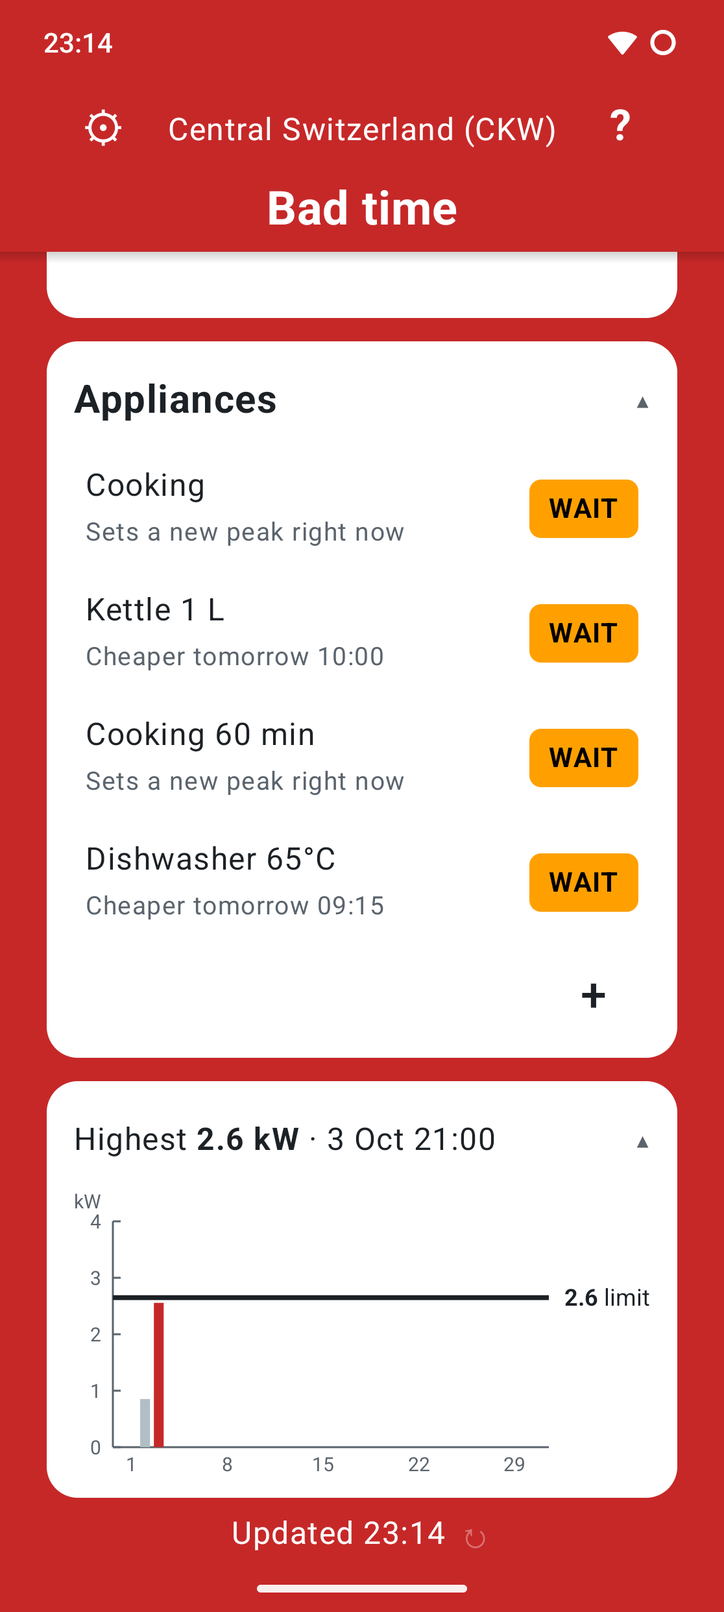
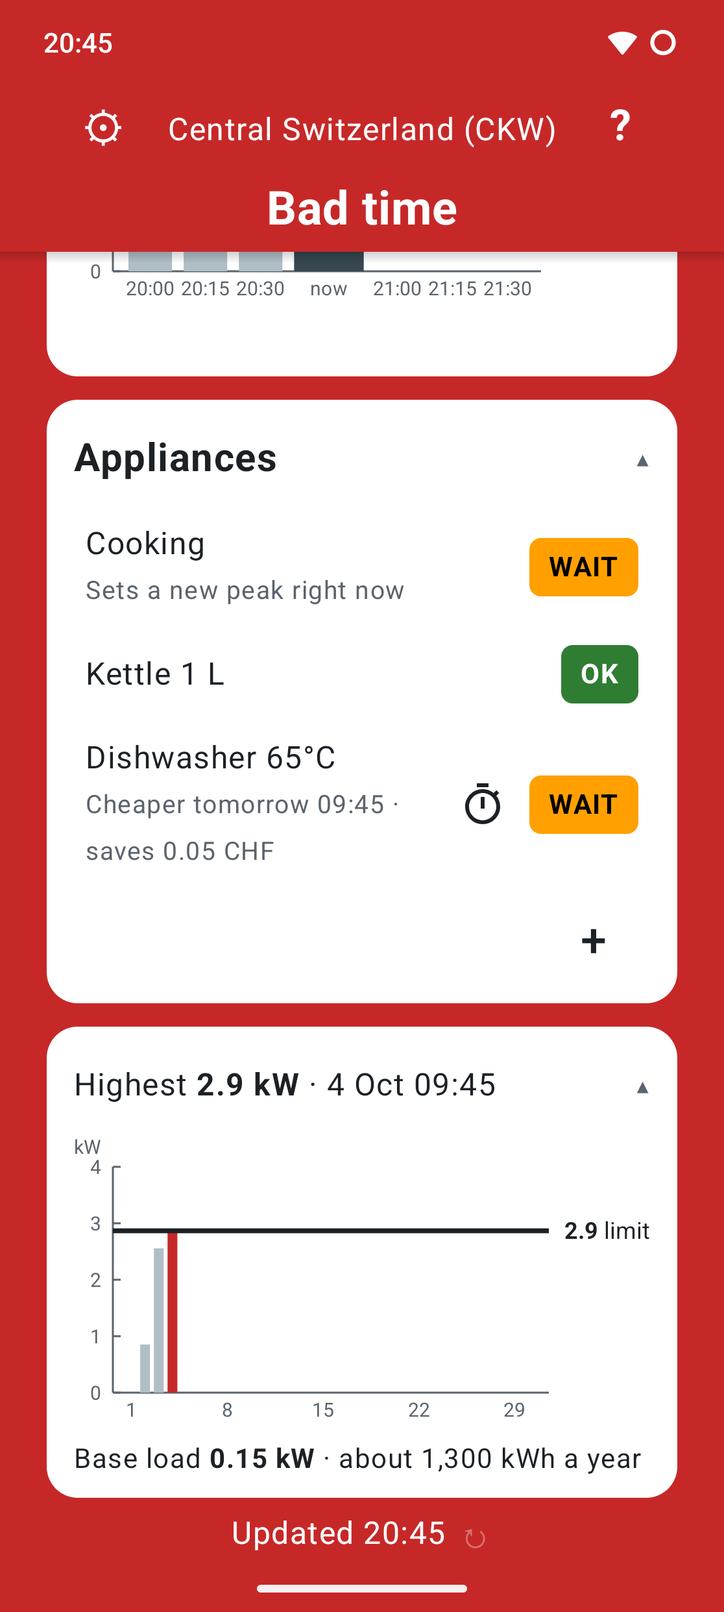
Declutter pass after v0.14.0, new store screenshots
The base load in the README and the store description, the built
features shrunk in feature_ideas.md, the skill's test logs condensed,
changelog 16 dropped (F-Droid moves to a later version), and six new
store screenshots with the price curve, the base load and the Limit group.

diff --git a/app/src/main/kotlin/io/github/buerlino/gridload/SettingsScreen.kt b/app/src/main/kotlin/io/github/buerlino/gridload/SettingsScreen.kt
@@ -65,6 +65,7 @@ import androidx.compose.ui.text.input.KeyboardType
 import androidx.compose.ui.text.withStyle
 import androidx.compose.ui.unit.dp
 import androidx.compose.ui.unit.sp
+import io.github.buerlino.gridload.core.BASE_LOAD_DAYS
 import io.github.buerlino.gridload.core.COUNTRIES
 import io.github.buerlino.gridload.core.Country
 import io.github.buerlino.gridload.core.Limit
@@ -169,7 +170,7 @@ private val BASE_LOAD_INFO = Info(
     "Base load",
     "On: the history shows your base load, what draws all the time (fridge, router, standby), and what it comes to " +
         "in a year.\n\n" +
-        "It's the median of the ¼ hours between these hours over the last 7 days. Pick hours when nothing else " +
+        "It's the median of the ¼ hours between these hours over the last $BASE_LOAD_DAYS days. Pick hours when nothing else " +
         "usually runs: an appliance on a night timer would count.",
 )
 

diff --git a/.claude/skills/build-gridload-android/SKILL.md b/.claude/skills/build-gridload-android/SKILL.md
@@ -55,8 +55,13 @@ in git.
 - Screenshots: `adb exec-out screencap -p > file.png`. For store screenshots, use SystemUI demo
   mode (`settings put global sysui_demo_allowed 1`, then `am broadcast -a
   com.android.systemui.demo -e command enter|clock|notifications|status|exit ...`) so the user's
-  status bar icons don't show, with the clock set to match "Updated". Afterwards exit demo mode
-  and set `sysui_demo_allowed` back to 0.
+  status bar icons don't show, with the clock set to match "Updated" (pull to refresh first).
+  On the Fairphone 6, `network -e mobile hide -e sims 0` and `network -e wifi show -e level 4
+  -e fully true` leave only Wi-Fi and the battery. Afterwards exit demo mode and set
+  `sysui_demo_allowed` back to 0. The six store screenshots (v0.14.0, 2026-10-04, real state, no
+  staging): the main screen with the price curve and the peak window; Cooking's preview; the
+  appliances and the history with the base load; the History screen; the help; Settings → Mode
+  with the Limit group.
 - A helper that taps the first node containing a text can hit a label instead of a button;
   match whole texts for buttons.
 - If the phone is locked, don't try to unlock it; ask the user.
@@ -119,8 +124,12 @@ reproducible-build check. The MR description says the APK has AndroidX's
 `libandroidx.graphics.path.so` (~10 KB per ABI); the reviewer's R8 request was answered with
 v0.3.1.
 
-Status (2026-10-04): the recipe is at 0.13.0 (`3ade4eee0`, versionCode 16, pushed: the MR's
-head, pipeline green). The NonFreeNet text, unchanged since 0.12.0:
+Status (2026-10-04): the MR's head is 0.13.0 (`3ade4eee0`, versionCode 16, pipeline green).
+The move to 0.14.0 (versionCode 17, commit `758b0f3d459016dc5f4eb8ea1ae94d958a8750a3`, the
+annotated tag's commit) is prepared in `../fdroiddata`, not yet committed or pushed. Checked
+2026-10-04: the GitHub APK of v0.14.0 (sha256 `2a38f0cd…5e59a20`) is signed with the
+`AllowedAPKSigningKeys` certificate, and its 25 entries outside `META-INF/` equal an unsigned
+build of the tag (names and sha256). The NonFreeNet text, unchanged since 0.12.0:
 ```
 NonFreeNet:
   en-US: Loads the prices from the chosen utility's web API or Energy-Charts. The
@@ -131,7 +140,12 @@ Auto update (`UpdateCheckMode: Tags`, `AutoUpdateMode: Version`) builds later ta
 
 Moving the recipe to a new version: check that the GitHub APK's signer matches
 `AllowedAPKSigningKeys` and that its contents equal an unsigned build of the tag (all entries
-outside `META-INF/`), then commit in the clone at `../fdroiddata`. `fdroid rewritemeta` wraps
+outside `META-INF/`), then commit in the clone at `../fdroiddata`. Build the tag in a scratch git
+worktree. A local build's `META-INF/version-control-info.textproto` can say
+`NO_VALID_GIT_FOUND` instead of the commit (seen 2026-10-04 in the worktree and in the working
+tree); CI's and F-Droid's checkouts of the tag write the commit, as the GitHub APK has, and
+F-Droid's reproducible check passed with it. The recipe's `commit` is the tag's commit
+(`git rev-parse vX.Y.Z^{commit}`), not the annotated tag object's hash. `fdroid rewritemeta` wraps
 long text values at about 80 columns with continuation lines indented 2 more, so write them
 wrapped that way. Pushing to the fork needs a GitLab token (`write_repository`) as the password;
 the fork has no credential helper. The user pushes and posts on GitLab (it's public under their
@@ -205,6 +219,7 @@ Open:
    Tried 2026-10-04 19:43 on the debug build (Austria and a 15 ct add-on staged, a Can-wait
    "Test 1 h" in `appliances.json`): Energy-Charts answered 503 (curl too), so only the failure
    showed: "No prices", "The price server answered with error 503.", the row "–". Restored after.
+   The v0.14.0 release test (2026-10-04 20:20) skipped this: Energy-Charts still answered 503.
 
 A new region: test the request with the app's code (a request of up to 31 days, past days too,
 gives plenty of data to analyse in one call; mind CKW's 4 per window), add it to `REGIONS` with
@@ -222,85 +237,43 @@ Finland and the Baltics. A source that is neither VSE/AES nor Energy-Charts need
 `PriceSource` (its request in `pricesRequestUrl`, its parser in `pricesFrom`); a currency other
 than CHF and EUR needs a new `Currency` (see `research/neighbouring_countries.md`).
 
-### Energy planning [steps 1 and 2 released in v0.13.0, 3 and 4 in v0.14.0]
+### Energy planning [steps 1 and 2 released in v0.13.0, 3 and 4 and the base load in v0.14.0]
 
 Claude's proposal, confirmed by the user 2026-10-04, before German, so the new strings are
 translated once and wave 1's users, mostly without a whatwatt, get more than one colour; the
-reasoning in `research/feature_ideas.md` (Review). Each step is its own release-sized piece,
-settled with the user before it starts.
-1. ~~A timer on WAIT rows~~ and 2. ~~the saving on WAIT rows~~: built and seen on the Fairphone 6
-   (design in `CLAUDE.md`, OK or WAIT). To stage a "Cheaper at" row: a `prices.json` with a few
-   dear quarters now and today copied as tomorrow, so nothing is fetched; restore it
-   byte-identical afterwards.
-3. **The price curve panel** [released in v0.14.0]: decided with the user: for
-   everyone, per slot, with a price axis (short unit), the first panel, a switch to hide it
-   (Settings → Region). Design in `CLAUDE.md` (UI, Price curve). Seen on the Fairphone 6
-   (2026-10-04): CKW's hourly bars, the window from midnight with the past slots faded (before
-   tomorrow's fetch) and the 24 hours from now after it, negative prices (staged: the axis goes
-   below 0, the bars down), folding, the switch, the ⓘ, the help line, a preview scrolling to the
-   peak window, and the curve alone (peak load off). To stage negative prices: copy a fetched
-   `prices.json`, set some of tomorrow's `integrated` values below 0, restore it afterwards.
-   Seen in the test session (2026-10-04, at `ae4c5fe`): the header's four texts, staged: "Green
-   for now", "Green until 18:45", "Green from 18:15", "No green time ahead"; folding (saved as
-   `curve_open`) and the switch again; no prices at all (no `prices.json`, airplane mode): no
-   panel, "No prices", no crash; the curve in the R8 release build. To stage the header: a
-   `prices.json` ending at tomorrow 00:15 local (so `wantsFetch` stays false), dear before now and
-   cheap from now. With tomorrow's whole day the window starts at now, so every slot of a green
-   run to its end would be green and the range 0: "Green for now" only shows while the window
-   starts before now (before tomorrow's prices, or after midnight).
-4. **The Limit setting** [released in v0.14.0]: decided with the user in place of a
-   tap on "2.6 limit" (the line stays not tappable): Settings → Mode → Limit, one switch per part
-   (month's highest, biggest appliance + 20%, tariff minimum, goal) with its value, a lock on the
-   last one on, and "Limit now: …, from …" or why there's none. Design in `CLAUDE.md` (Peak load,
-   The limit). Seen on the Fairphone 6 (2026-10-04): each switch moves the line in the peak
-   window and the history, the lock moves to the last one on, hiding the appliances hides the
-   floor ("No limit: none of these is on."), Austria's minimum (staged in the prefs with CKW's
-   `prices.json` backed up), a goal below the draw (red bar, the vibration issued as
-   NOTIFICATION) and no limit (no line, "0.5 kW now"). Fixed 2026-10-04: with the month's highest
-   off, the warning and the WAIT rows claimed a new peak below it; they now say "sets a new peak"
-   only above the month's highest (`isNewPeak`), else "reaches the limit". Seen on the Fairphone 6
-   (2026-10-04): a goal below the draw with Month's highest off gives "This ¼ hour reaches the
-   limit." and rows "Reaches the limit right now"; with it on, not yet seen since the fix.
-   Seen in the test session (2026-10-04, at `ae4c5fe`): the floor's value and appliance
-   (`UiState.floor`: "2.6 kW, Cooking", "1.6 kW, Dishwasher 65°C" with Cooking's Counts for the
-   limit off; the kettle's heaviest ¼ hour is only ~0.4 kW); the lock moving (floor → goal); each
-   "No limit" reason: none on (only the floor on, the appliances hidden), nothing recorded (the
-   copied day files removed, the address at `192.0.2.1` so nothing syncs), no appliance counts
-   (all `countsForLimit` false in a staged `appliances.json`), the goal empty; hiding the
-   appliances moves the line in the peak window, the history and the History screen; the
-   Limit group in the R8 release build. With real cooking (17:33, hob + kettle, the default
-   limit = the month's highest 2.9 kW): a 3.2 kW projection gives "This ¼ hour sets a new peak."
-   with Share, and the rows "Sets a new peak right now". Still open: a row "Reaches the limit · at
-   hh:mm" (a goal below the base draw can't give one), last month's History without a line
-   (September has nothing recorded).
-   **Vibrate at the limit**, seen in the same session (`dumpsys vibrator_manager`, "Recent
-   vibrations", grouped by usage): Always gives ALARM, `finished`, 400 ms, in silent and normal
-   mode; Unless silent gives NOTIFICATION, `ignored_for_ringer_mode` in silent mode and `finished`
-   in normal mode, but only with Android's notification vibration on. On the user's Fairphone 6
-   it's off (`settings get system notification_vibration_intensity` = 0), so Unless silent is
-   `ignored_for_settings` in every ringer mode, the real alarm at 17:31 too. Once per ¼ hour: one
-   at 16:52, none for 8 minutes, one at 17:00:08; none while in the background past 17:15, one
-   on reopening at 17:15:50.
-   Fixed 2026-10-04 (user): both choices vibrate as ALARM and Unless silent checks
-   `AudioManager.ringerMode` itself; tapping a choice in Settings vibrates once with it, or shows
-   "The phone is silent, so it didn't vibrate." Seen on the Fairphone 6 (release build,
-   notification vibration off): silent + Unless silent: nothing in the log, the line shows;
-   silent + Always, normal + either, vibrate + Unless silent: ALARM `finished`. Not yet seen
-   since the fix: the real alarm at a red bar (the same `vibrate` function). Ringer mode over
-   adb: `cmd media_session volume` doesn't change it; open the volume panel and use its chooser
-   in one go, `adb shell "input keyevent KEYCODE_VOLUME_DOWN; sleep 0.4; input tap 1008 900;
-   sleep 0.6; input tap 1008 <y>"` (y: 648 vibrate, 775 silent, 898 sound), check with
-   `dumpsys audio | grep -A2 '^Ringer mode'`.
+reasoning in `research/feature_ideas.md` (Review). Each step was settled with the user before it
+started; the designs are in `CLAUDE.md`. All of them were seen on the Fairphone 6 and in the R8
+release build (the v0.14.0 release test, 2026-10-04, the signed GitHub APK).
+1. ~~A timer on WAIT rows~~ and 2. ~~the saving on WAIT rows~~ (`CLAUDE.md`, OK or WAIT). To
+   stage a "Cheaper at" row: a `prices.json` with a few dear quarters now and today copied as
+   tomorrow, so nothing is fetched; restore it byte-identical afterwards.
+3. ~~The price curve panel~~ (`CLAUDE.md`, Price curve). To stage negative prices: copy a
+   fetched `prices.json` and set some of tomorrow's `integrated` values below 0. To stage the
+   header: a `prices.json` ending at tomorrow 00:15 local (so `wantsFetch` stays false), dear
+   before now and cheap from now. With tomorrow's whole day the window starts at now, so a green
+   run to its end makes the range 0: "Green for now" only shows while the window starts before
+   now (before tomorrow's prices, or after midnight). Restore the file afterwards.
+4. ~~The Limit setting~~ (`CLAUDE.md`, The limit), with "sets a new peak" only above the month's
+   highest (`isNewPeak`). To stage each "No limit" reason: only the floor on with the appliances
+   hidden (none on); the copied day files removed and the address at `192.0.2.1`, so nothing
+   syncs (nothing recorded); every `countsForLimit` false in a staged `appliances.json` (no
+   appliance counts); the goal empty. A goal below the draw gives a red bar and "reaches the
+   limit". Still open: a row "Reaches the limit · at hh:mm" (a goal below the base draw can't give
+   one); last month's History without a line (September has nothing recorded).
+   **Vibrate at the limit** (both choices as ALARM, Unless silent checks the ringer mode itself):
+   check with `dumpsys vibrator_manager`, "Recent vibrations", grouped by usage (`finished`,
+   `ignored_for_ringer_mode`, `ignored_for_settings`). As NOTIFICATION it depended on Android's
+   notification vibration, which is off on the user's Fairphone 6
+   (`settings get system notification_vibration_intensity` = 0). Ringer mode over adb:
+   `cmd media_session volume` doesn't change it; open the volume panel and use its chooser in one
+   go, `adb shell "input keyevent KEYCODE_VOLUME_DOWN; sleep 0.4; input tap 1008 900; sleep 0.6;
+   input tap 1008 <y>"` (y: 648 vibrate, 775 silent, 898 sound; the key also lowers the media
+   volume by a step), check with `dumpsys audio | grep -A2 '^Ringer mode'`.
+- ~~The base load line~~ (`CLAUDE.md`, History). Checked against the day files: the median of the
+  quarters in the hours matches the line, past midnight too. Still open: the line settling over
+  7 nights; the "no ¼ hours" line (every hour has quarters in the last 7 days now).
 - **Decide before German:** appliances by run time without a whatwatt (price-only rows from a
   flat curve), which touches the "measured only" rule. Only the user can decide.
-- **The base load line** [released in v0.14.0]: decided with the user: the median
-  (not each night's lowest), between hours set in Settings → Mode → Base load (02:00–05:00 by
-  default), with a switch; kWh a year, no CHF. Design in `CLAUDE.md` (History). Seen on the
-  Fairphone 6 (debug build, 2026-10-04): the line ("0.15 kW · about 1,300 kWh a year" from only
-  two nights, 3 Oct at ~0.23 kW and 4 Oct at ~0.07 kW, checked against the day files), the
-  Settings row and a From pick saved. Still open: the line settling over 7 nights; the "no ¼
-  hours" line; W; the line in the R8 release build (v0.14.0 was pushed without it, the phone being
-  away).
 
 Draw ahead (v0.13.0), still open: see it with the hob cycling (the later quarters steady on
 2-min average, jumping on Latest reading).
@@ -309,12 +282,10 @@ Draw ahead (v0.13.0), still open: see it with the hob cycling (the later quarter
 
 Telling the household when a quarter hour heads for a new peak. Research, design and sources in
 `research/household_alerts.md`; the design in `CLAUDE.md` (the peak window).
-1. **(a) Share** [built, commit `0c85de7`]: a Share button right of the peak warning (open and
-   collapsed, only while it shows) opens the share sheet with a ready text (WhatsApp, Signal, any
-   messenger). No setting, no permission. Seen on the Fairphone 6 (2026-10-04, a goal staged
-   below the draw): the button beside the warning, open and collapsed, and the share sheet with
-   the text. Open: a message actually sent to a messenger group (the user sends one when wanted;
-   the 2026-10-04 test session didn't send anything).
+1. ~~(a) Share~~: the button beside the warning, open and collapsed, and the share sheet's text,
+   seen in the release build (closed without sending). Open: a message actually sent to a
+   messenger group (the user sends one when wanted); the Share text with "sets a new peak" in the
+   release build (no real peak happened).
 2. ~~(b) ntfy~~: dropped 2026-10-04 (it sends only while GridLoad is open somewhere).
 3. Later, not planned: (b2) a background sender on a hub phone (phase 5) with ntfy, the only
    way an automatic alert would be useful; see the research file.

diff --git a/research/feature_ideas.md b/research/feature_ideas.md
@@ -44,15 +44,15 @@ plan built from it is the "Energy planning" phase in the skill's roadmap.
   runtime permission, no background work). Built in v0.13.0.
 - **Users without a whatwatt get one colour and the next good time.** That's most users, and
   most of wave 1's. The [price curve](#1-price-curve-for-the-next-24-hours) shows how long green
-  lasts, which they need to plan a long run.
+  lasts, which they need to plan a long run. Built in v0.14.0.
 - **Appliances by run time, without a whatwatt** (open, the user's decision): a run time read
   off the appliance's display ("2 h 30") isn't a guess the way typed watts were. With a flat
   curve it gives price-only OK/WAIT rows. It touches the "measured only" rule (`CLAUDE.md`,
   Appliances), so only the user can say whether that rule is about watts or about appliances.
   Decide before the German phase, since it changes what the appliances panel is for.
 - **[Where the limit comes from](#where-the-limit-comes-from):** with four sources, a Cooking
-  row told to wait for a floor Cooking set itself looks like a bug. Decided 2026-10-04: a Limit
-  setting, see below.
+  row told to wait for a floor Cooking set itself looks like a bug. Built in v0.14.0 as the Limit
+  setting.
 - **The classification on spot prices:** the known weak point (one spike sets `max`, `CLAUDE.md`,
   Classification) was only orange against red on CKW's smooth hourly curve. Market prices have
   sharper spikes and negative hours. Score a month of Energy-Charts prices the same way before
@@ -61,60 +61,27 @@ plan built from it is the "Energy planning" phase in the skill's roadmap.
   green too generous; the 90th percentile for market-price regions shipped in v0.13.0.
 - Smaller: the [saving on WAIT rows](#savings-on-each-wait-row) (built in v0.13.0); the
   [base load](#2-base-load) is the biggest number in the data
-  (~700 kWh a year, far above the peak), one line in the history panel; the
+  (~700 kWh a year, far above the peak), one line in the history panel (built in v0.14.0); the
   [widget](#home-screen-widget-or-a-quick-settings-tile) can wait, since without a background
   fetch it runs dry by evening and the timer button covers most of the need.
 
-Suggested order (confirmed by the user 2026-10-04): the timer and the saving on WAIT rows (both
-in v0.13.0), then the price curve, then where the limit comes from (built as the Limit setting).
+The suggested order (confirmed by the user 2026-10-04) is built: the timer and the saving in
+v0.13.0, the price curve, the Limit setting and the base load in v0.14.0.
 
 ## Panels for the main screen
 
 ### 1. Price curve for the next 24 hours
 
-**What:** a white panel (the existing `Panel` in `Charts.kt`) with one bar per slot or hour over
-the classification window, each in its colour (green/orange/red), a marker for now, and time
-labels every few hours. The collapsed header could say how long the current colour lasts:
-"Green until 16:00" or "Green from 11:00 to 15:00".
+Built in v0.14.0 as the first panel, for everyone, one bar per slot with a price axis and a
+switch to hide it: see `CLAUDE.md`, "Price curve".
 
-**Why:** today the screen says when green *starts* ("● tomorrow 10:00") but not how long it
-lasts, nor whether it's 1 hour or 5. With the curve you can plan a long run (washing machine,
-then dryer) without trial and error.
-
-**Data:** already there. These are the cached slots and the window from `classify`
-(`Classify.kt`). The levels need `level(price)` for every slot, which today is a local function
-inside `classify`. Moving it out of `classify` (e.g. a `levels(slots, now)` returning
-slot → level for the window) is a small `:core` change with unit tests.
-
-**Open questions:**
-- Show it without peak load too? Right now the panels exist only with peak load on, and
-  without peak load the spot part is centred with larger text. A price panel would make the
-  panel layout the default for everyone.
-- Hourly bars (24) or slots (96 for the 15-min utilities)? Bars per hour, averaged, read better
-  on a phone. EKZ and Groupe E are 15-min, CKW and Primeo hourly.
-- Show prices on the axis (Rp/kWh), or only the colours? Fewer numbers fits the UI rules.
-- Where: above the peak window or below the history?
 
 ### 2. Base load
 
-**What:** in the history panel or a small panel of its own: "Base load 80 W · about 700 kWh a
-year". It could also compare with last month.
+Built in v0.14.0 as a line in the history panel: the median of the quarters between hours set
+in Settings (02:00 to 05:00 by default) over the last 7 days, in kWh a year, no CHF: see
+`CLAUDE.md`, "History".
 
-**Why:** a quarter of the use, and it runs every hour of the year. Most households don't know
-theirs, and it's the easiest saving (old fridge, network gear, standby).
-
-**Data:** the recorder's day files the app already copies (`RecorderFiles`, `parseRecording`).
-A `:core` function, e.g. the median of the quarters between 02:00 and 05:00 over the last 7 days.
-Use the median, not the minimum: a fridge cycles, so the minimum underestimates.
-
-**Decided (user, 2026-10-04):** the median, since a fridge cycles over a longer stretch; the
-hours are a setting (From, To) so a household picks its own quiet hours, with a switch to hide
-it; kWh a year only. Built as in `CLAUDE.md` (History).
-
-**Open questions (before the decision):** CHF per year too? (`CLAUDE.md` keeps peak CHF amounts out of the code, but
-this is kWh × the average price, which the app knows.) Is "02:00–05:00" right for a household
-whose night isn't quiet (e.g. a dishwasher on a timer)? Then the lowest hour of each night is
-safer.
 
 ### 3. Month so far
 
@@ -158,30 +125,9 @@ since clock apps take timers only from apps holding it.
 
 ### Where the limit comes from
 
-**What:** the peak window's limit line can come from four places: the floor (the biggest
-appliance × 1.2), the goal, the tariff's minimum (`Region.minimumKw`, e.g. 2 kW in Austria) or
-the month's highest quarter hour. Right now the screen says only "2.6 limit". A tap on the limit
-label would say which one sets it: "Floor from Cooking (2.21 kW × 1.2)", "Goal", "Your tariff's
-minimum", or "Highest this month, 2 Oct 18:30".
+Built in v0.14.0 as Settings → Mode → Limit, one switch per part with its value and a "Limit
+now" line, in place of a tap on the limit label: see `CLAUDE.md`, "The limit".
 
-**Why:** when the peak window tells Cooking to wait for a limit it set itself, nothing on screen
-explains why. Someone who doesn't know the floor would think the app is broken, which is what the
-floor was meant to fix.
-
-**How:** `peakLine` (`Quarters.kt`) returns only the maximum of the four, so it would need to
-return the winning source with the value (a small pair or a label), and its tests would cover
-which one wins. The explanation goes in a dialog, like the ⓘ ones (`Info` in `SettingsScreen.kt`),
-so the peak window keeps one short line (`CLAUDE.md`: each concept in one place).
-
-**Open questions:** a dialog on tap, or a short suffix in the scale ("2.6 limit · floor")? Show it
-in the help too?
-
-**Decided (user, 2026-10-04):** neither. The line stays not tappable; instead Settings → Mode →
-**Limit** has one switch per part (month's highest, biggest appliance + 20%, tariff minimum,
-goal), each with its value, and a result line, "Limit now: 2.7 kW, from Cooking + 20%", or why
-there's none. The last switch on is locked; nothing is switched on by itself. The defaults give
-the limit as before. `peakLimit` (`Quarters.kt`) returns the value and the part, with the floor's
-appliance. Design in `CLAUDE.md`, "The limit".
 
 ## Outside the main screen
 

diff --git a/.claude/skills/build-gridload-android/declutter.md b/.claude/skills/build-gridload-android/declutter.md
@@ -550,3 +550,46 @@ rows, the Share text) this pass left alone.
   and collapsed; Share opens the share sheet with the text (closed without sending); the rows say
   "Reaches the limit right now". The app's data (backed up with `run-as … tar`, app stopped) was
   restored byte-identical, contents and modes, no extra files.
+
+## Pass 2026-10-04 (after v0.14.0)
+
+Report (at `758b0f3`, the v0.14.0 tag; range `ae4c5fe..758b0f3`: the vibration fix and the base
+load line): 118 tests green, lint "No issues found", no `w:` lines, no unused declarations, the
+only deprecation AGP's `setVisible` (AGP 9.5.0 still alpha08), workflows on `checkout@v7` /
+`setup-java@v6`. The code was lean; the clutter was in the docs. The user approved all items.
+
+### Code
+- [x] C1. `BASE_LOAD_INFO` said "last 7 days" as a literal while `BaseLoadLine` uses
+  `$BASE_LOAD_DAYS`: both use the constant now (same text).
+
+### Docs
+- [x] D1. `research/feature_ideas.md`: the built price curve, base load and "where the limit
+  comes from" sections shrunk to a line each pointing to `CLAUDE.md`; the Review's order marked
+  built (−69 lines).
+- [x] D2. The skill's Energy planning and Household alerts (374 → 316 lines): the
+  phone and release-test logs of steps 3 and 4, Vibrate at the limit, the base load and Share
+  condensed to status, open items and the how-tos (staging, `dumpsys vibrator_manager`, ringer
+  mode over adb).
+- [x] D3. `CLAUDE.md` Current state: the F-Droid recipe's move to 0.14.0 prepared.
+- [x] D4. The base load was in changelog 17 but not in the README (History) or the store
+  description (3202 → 3289 characters).
+
+### Repo
+- [x] R1. Changelog 16 deleted: with the recipe moving to 17, F-Droid never builds 16 (the
+  v0.13.0 tag keeps its copy). Assumes the 0.14.0 recipe commit is pushed.
+- [x] R2. `git gc` (141 loose objects, 808 KiB → 0).
+
+### No change
+- The base load's defaults (2 and 5) appear in `UiState` and the prefs read, as for every pref.
+- `hourText`'s `"%02d:00"` beside the `HH:mm` formatters: the same idiom as the hour labels.
+
+### Done (2026-10-04)
+- F-Droid: the GitHub APK of v0.14.0 equals an unsigned build of the tag outside `META-INF/`
+  (25 entries); the recipe's move to 0.14.0 prepared in `../fdroiddata` (see the skill).
+- Verified: `:core:test :app:lintDebug :app:assembleDebug :app:assembleRelease` green, 118
+  tests, lint "No issues found". The unsigned release APK went from `ec54b697…` to
+  `4efe5266…` with C1: `dexdump` of both is identical apart from R8's `r8-map-id` (the added
+  import moves source lines), which also changes `baseline.prof`; no code change. Two clean
[1 lines of base64/hex data omitted]
+- New store screenshots (v0.14.0, on the Fairphone 6, 20:45): the price curve, the base load and
+  the Limit group show; the old ones were from v0.11.1.

diff --git a/CLAUDE.md b/CLAUDE.md
@@ -266,7 +266,7 @@ Decided with the user on 2026-10-03. Wave 1 was released in v0.12.0; its open it
 
 ## Current state
 
-Released: **v0.14.0** (tag `v0.14.0`, versionCode 17, 2026-10-04: the price curve, the Limit setting, the base load, Share, the vibration fix) on GitHub Releases/Obtainium; what each release brought is in git and the fastlane changelogs. F-Droid: merge request https://gitlab.com/fdroid/fdroiddata/-/merge_requests/50583, in review; the recipe is at 0.13.0 (`3ade4eee0`, versionCode 16, pushed, pipeline green; its NonFreeNet text names Energy-Charts), to move to 0.14.0 once the GitHub APK is out. Auto update (`UpdateCheckMode: Tags`, `AutoUpdateMode: Version`) picks up later tags once merged. Next: the open decision before German (appliances by run time without a whatwatt), then German; on 26 Oct 2026, the 25 Oct DST fixtures (CKW and AT) and the recorder's DST check, in a patch release only if they turn something up; the reasoning in [research/feature_ideas.md](research/feature_ideas.md). iOS is out of scope for now. The user gives further instructions step by step; the roadmap and each phase's status are in the skill.
+Released: **v0.14.0** (tag `v0.14.0`, versionCode 17, 2026-10-04: the price curve, the Limit setting, the base load, Share, the vibration fix) on GitHub Releases/Obtainium; what each release brought is in git and the fastlane changelogs. F-Droid: merge request https://gitlab.com/fdroid/fdroiddata/-/merge_requests/50583, in review; the MR's head is 0.13.0 (`3ade4eee0`, versionCode 16, pipeline green; its NonFreeNet text names Energy-Charts); the move to 0.14.0 is prepared in `../fdroiddata` (the GitHub APK checked against an unsigned build of the tag: identical outside `META-INF/`), to commit and push. Auto update (`UpdateCheckMode: Tags`, `AutoUpdateMode: Version`) picks up later tags once merged. Next: the open decision before German (appliances by run time without a whatwatt), then German; on 26 Oct 2026, the 25 Oct DST fixtures (CKW and AT) and the recorder's DST check, in a patch release only if they turn something up; the reasoning in [research/feature_ideas.md](research/feature_ideas.md). iOS is out of scope for now. The user gives further instructions step by step; the roadmap and each phase's status are in the skill.
 
 ## Conventions
 

diff --git a/README.md b/README.md
@@ -72,7 +72,7 @@ The quarter hours come from the **GridLoad recorder**, a small Berry script that
 
 **Appliances** (the third panel, with peak load on): measure each appliance once with **+** (tap Start, switch it on, tap Done when it has finished). From the recorder's quarter hours, GridLoad learns how much it draws, for how long, and when in the run. Each row then says **OK**, or **WAIT** with when: starting now would reach the limit, or, for appliances that can wait (a dishwasher, a washing machine), a later start is clearly cheaper, with what waiting saves ("Cheaper at 12:30 · saves 0.09 CHF"; in a market-price region once your add-on is set). Tap a row to see its run in the peak window, with what goes over the limit in red. A WAIT with a time has a timer button: it opens the clock app with a timer, named after the appliance, until then. With a start delay on the appliance, it says what delay to set instead. "Counts for the limit" (on by default) lets an appliance's heaviest quarter hour raise the floor, so the biggest appliance on its own is never told to wait. A measured appliance gives variants with another run time ("Cooking 60 min", or "Kettle 1.5 L" from the amount of water). Settings → Mode → Appliances exports and imports them as a file, for a new phone.
 
-**History** (the fourth panel): the month so far, one bar per day (its highest quarter hour), with the limit across it. Tap the chart for a day's quarter hours and last month. All four panels fold to their top line.
+**History** (the fourth panel): the month so far, one bar per day (its highest quarter hour), with the limit across it. Tap the chart for a day's quarter hours and last month. Below it, the **base load**: what your home draws all the time (fridge, router, standby), the median of the night's quarter hours over the last 7 days, and about how many kWh that comes to in a year (the hours, 02:00 to 05:00 by default, and a switch to hide it are under Settings → 📊 Mode → Base load). All four panels fold to their top line.
 
 ### What you need
 
